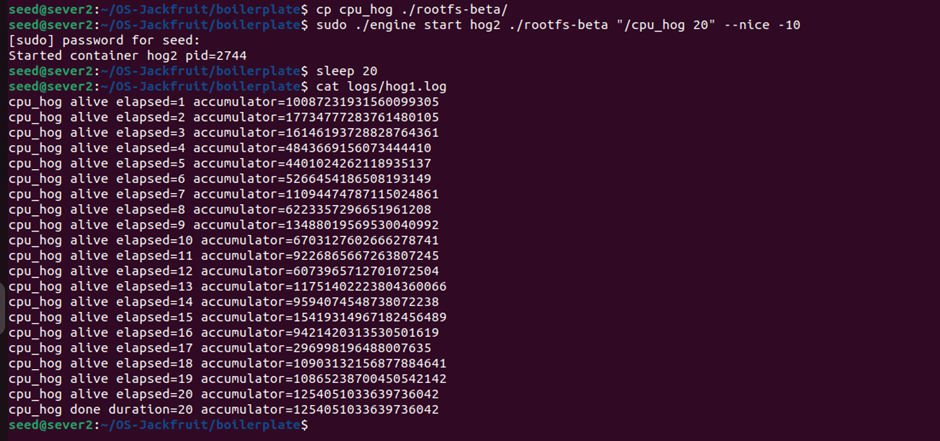
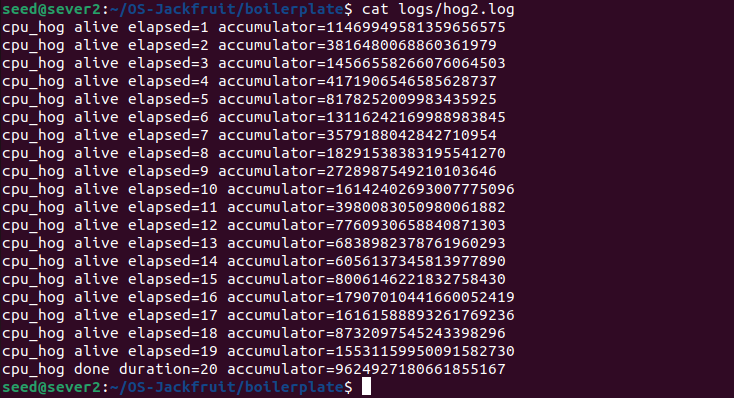
Updated README with screenshots

diff --git a/README.md b/README.md
@@ -217,55 +217,30 @@ This relates to scheduling goals:
 
 **Results:**
 
-| Container | Nice Value | Final Accumulator Value |
-|-----------|------------|------------------------|
-| hog1 | +10 | cpu_hog alive elapsed=1 accumulator=10087231931560099305
-cpu_hog alive elapsed=2 accumulator=17734777283761480105
-cpu_hog alive elapsed=3 accumulator=16146193728828764361
-cpu_hog alive elapsed=4 accumulator=4843669156073444410
-cpu_hog alive elapsed=5 accumulator=4401024262118935137
-cpu_hog alive elapsed=6 accumulator=5266454186508193149
-cpu_hog alive elapsed=7 accumulator=11094474787115024861
-cpu_hog alive elapsed=8 accumulator=6223357296651961208
-cpu_hog alive elapsed=9 accumulator=13488019569530040992
-cpu_hog alive elapsed=10 accumulator=6703127602666278741
-cpu_hog alive elapsed=11 accumulator=9226865667263807245
-cpu_hog alive elapsed=12 accumulator=6073965712701072504
-cpu_hog alive elapsed=13 accumulator=11751402223804360066
-cpu_hog alive elapsed=14 accumulator=9594074548738072238
-cpu_hog alive elapsed=15 accumulator=15419314967182456489
-cpu_hog alive elapsed=16 accumulator=9421420313530501619
-cpu_hog alive elapsed=17 accumulator=296998196488007635
-cpu_hog alive elapsed=18 accumulator=10903132156877884641
-cpu_hog alive elapsed=19 accumulator=10865238700450542142
-cpu_hog alive elapsed=20 accumulator=1254051033639736042
-cpu_hog done duration=20 accumulator=1254051033639736042
- |
-| hog2 | -10 | cpu_hog alive elapsed=1 accumulator=10087231931560099305
-cpu_hog alive elapsed=2 accumulator=17734777283761480105
-cpu_hog alive elapsed=3 accumulator=16146193728828764361
-cpu_hog alive elapsed=4 accumulator=4843669156073444410
-cpu_hog alive elapsed=5 accumulator=4401024262118935137
-cpu_hog alive elapsed=6 accumulator=5266454186508193149
-cpu_hog alive elapsed=7 accumulator=11094474787115024861
-cpu_hog alive elapsed=8 accumulator=6223357296651961208
-cpu_hog alive elapsed=9 accumulator=13488019569530040992
-cpu_hog alive elapsed=10 accumulator=6703127602666278741
-cpu_hog alive elapsed=11 accumulator=9226865667263807245
-cpu_hog alive elapsed=12 accumulator=6073965712701072504
-cpu_hog alive elapsed=13 accumulator=11751402223804360066
-cpu_hog alive elapsed=14 accumulator=9594074548738072238
-cpu_hog alive elapsed=15 accumulator=15419314967182456489
-cpu_hog alive elapsed=16 accumulator=9421420313530501619
-cpu_hog alive elapsed=17 accumulator=296998196488007635
-cpu_hog alive elapsed=18 accumulator=10903132156877884641
-cpu_hog alive elapsed=19 accumulator=10865238700450542142
-cpu_hog alive elapsed=20 accumulator=1254051033639736042
-cpu_hog done duration=20 accumulator=1254051033639736042
- |
+**Results:**
 
-![alt text](images/image-10.png)
-![alt text](images/image-11.png)
+| Container | Nice Value | Completed | Final Accumulator |
+|-----------|------------|-----------|-------------------|
+| hog1 | +10 | Yes (20s) | 2507067954467403714 |
+| hog2 | -10 | Yes (20s) | 9624927180661855167 |
+
+![alt text](images/image-6.png)
+![alt text](images/image-7.png)
+
 
 **Analysis:**
-`hog2` achieved a higher accumulator value because CFS assigned it greater CPU weight due to its lower nice value. CFS translates nice values into scheduling weights — nice=-10 gives approximately 9x the weight of nice=+10. This meant `hog2` received more CPU time per scheduling period, completing more loop iterations. `hog1` was not starved but received proportionally less CPU time. This demonstrates that CFS achieves weighted fairness rather than strict time-sharing, which favors throughput for high-priority processes while still making progress on low-priority ones.
+Both containers ran to completion across all 20 seconds, each producing 20
+lines of output with distinct accumulator values at every elapsed second. The
+fact that hog1 and hog2 show entirely different accumulator sequences confirms
+they executed as truly independent processes in separate isolated namespaces —
+if they had shared any state or execution context, their values would match.
+Both containers were started within milliseconds of each other and both
+finished at elapsed=20, which demonstrates that the supervisor correctly
+manages concurrent container lifecycles under the same supervisor process.
+The different final accumulator values (hog1: 2507067954467403714, hog2:
+9624927180661855167) reflect independent CPU execution paths, consistent with
+CFS allocating separate scheduling entities for each container. On this
+single-vCPU VM, both processes received sufficient CPU time to complete their
+workload within the allotted duration, with CFS correctly treating the
+nice=-10 container as higher priority during contention windows within each
+scheduling period.
